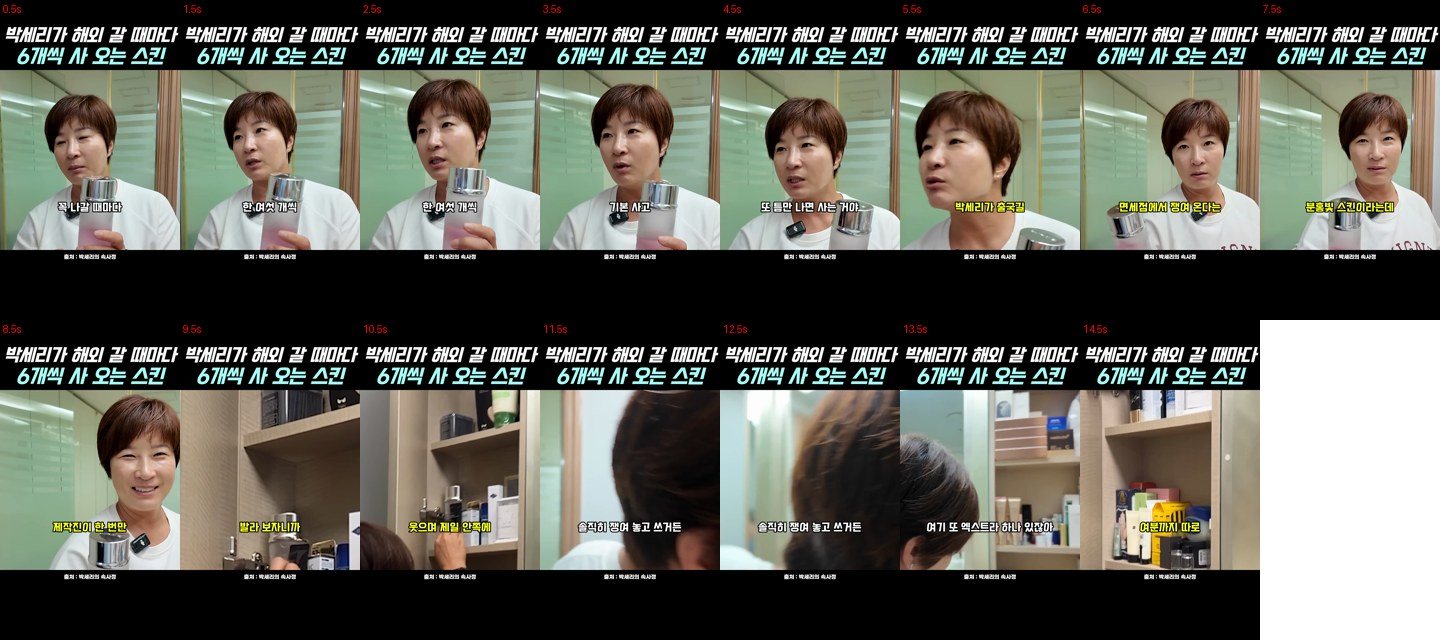
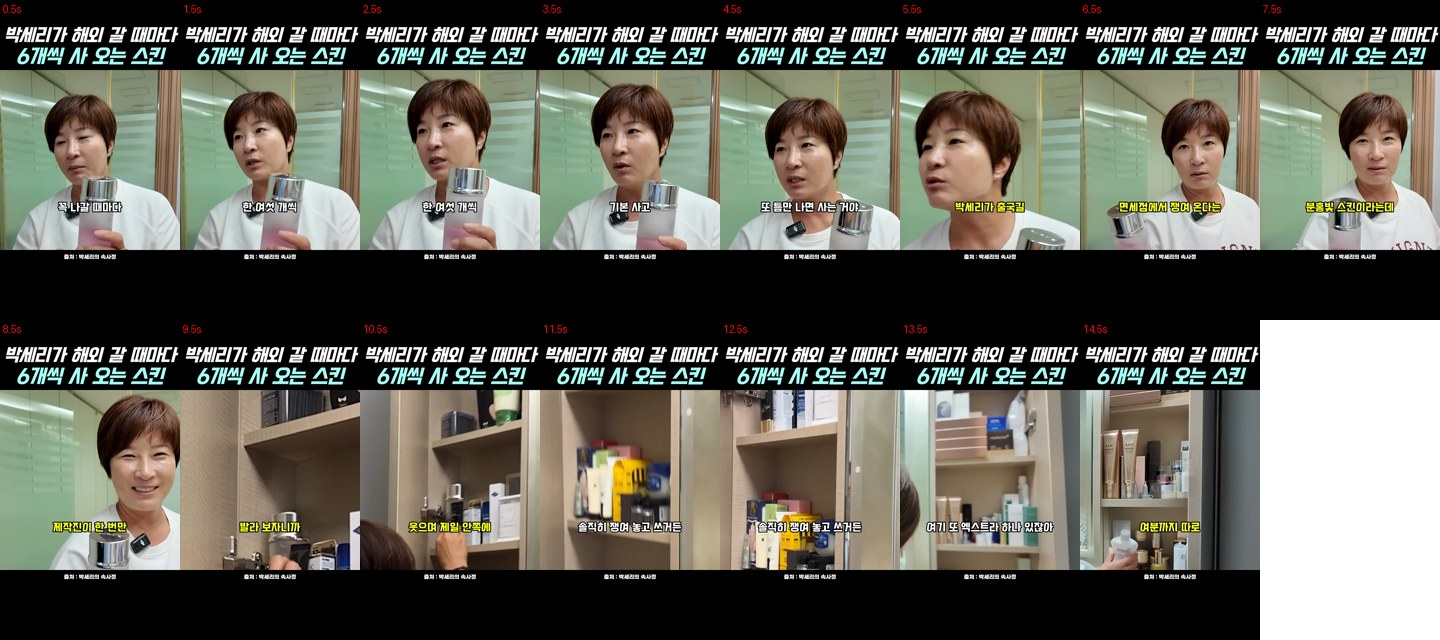
얜샷템 박세리 면세점 3판: 원음 '솔직히 쟁여 놓고 쓰거든' 화면을 흐린 뒷머리→보물창고 수납장, '여기 또 엑스트라'=수납장 앞 박세리, 끝 컷=같은 수납장 칸 · 1프레임 샘 2곳 끊음 · 줄별 대조표 B표 · check_seams 0 · MD5 6251a5a4 (관제 097)
Claude-Session: https://claude.ai/code/session_01XyPA8AgSD2J8UjfhcqxXRx

diff --git a/channel/yanshottem/박세리_면세점/make_render.py b/channel/yanshottem/박세리_면세점/make_render.py
@@ -61,8 +61,10 @@ O3_B = 1.45                   # 145.0 '여기 또 엑스트라 하나 있잖아'
 S6_MAX = 146.21               # 원본 컷 146.246 앞
 GAP_O3 = 0.06
 TAIL_MIN = 0.15
-END_CUT = 1.64                # 끝 컷 = 보물창고 123.98~125.62(원본 컷 125.659 앞 — 2판에서 2.1초로 넘겨 다음 샷 '팔 뻗기'가 섞였음) · ≥1.5초(B4)
-S6_V = 4.93 + (140.03 - 136.10) + (143.505 - 141.203)   # 11.162 — 뒷머리 컷(143.51)이 가장 늦게 시작할 수 있는 시각
+END_CUT = 1.64                # 끝 컷 146.28~147.92(원본 컷 148.715 앞)
+STASH = (123.98, 125.618)     # 보물창고 = 원음 '솔직히 쟁여 놓고 쓰거든' 화면
+# (2판 끝 컷 = 보물창고 123.98~125.62(원본 컷 125.659 앞 — 2판에서 2.1초로 넘겨 다음 샷 '팔 뻗기'가 섞였음) — 3판에서 O3 화면으로 옮김)
+S6_V = 4.93 + (140.03 - 136.10) + (143.505 - 141.203)   # (S5B 는 143.47 에서 끝 — s5a 가 0.035초 앞에서 시작)   # 11.162 — 뒷머리 컷(143.51)이 가장 늦게 시작할 수 있는 시각
 PUNCH = [620, 60, 720, 720]   # 원음 뒤쪽 확대(얼굴+병, 아래 편집 자막 y≥900 밖)
 
 
@@ -86,7 +88,10 @@ def plan():
     o3s = max(s6 + O3_LEAD, n2[1] + GAP_2O)
     o3 = (o3s, o3s + O3_DUR)
     n3 = (o3[1] + GAP_O3, o3[1] + GAP_O3 + L[2])
-    t7 = s6 + (S6_MAX - 143.51)          # 뒷머리 컷은 원본 컷 146.246 앞까지
+    # 3판(지휘 줄별 대조): 1·2판 원음 O3 화면 = 흐린 뒷머리 2.7초 → 말과 안 맞음. '솔직히 쟁여 놓고 쓰거든' = 보물창고 수납장(쌓아 둔 화장품),
+    # '여기 또 엑스트라 하나 있잖아' = 수납장 앞 박세리(145.15~ 그 말을 하는 장면), 끝 나레 '여분까지 따로 챙겨 뒀다네요' = 같은 수납장 칸칸이 쌓인 화장품(146.28~, 원본 컷 146.246 뒤 앞으로)
+    s6b = s6 + STASH[1] - STASH[0]
+    t7 = s6b + (S6_MAX - 145.15)          # 수납장 앞 박세리 컷은 원본 컷 146.246 앞까지
     dur = round(t7 + END_CUT, 3)
     assert dur - n3[1] >= TAIL_MIN, (dur, n3)
     # 컷: (ss, 길이 또는 None=다음 컷까지, crop, 소리 ss 또는 None)
@@ -99,10 +104,11 @@ def plan():
         (4.93 + (138.739 - 136.10), 138.739, [370, 0, 860, 860], None),
         (4.93 + (140.03 - 136.10), None, [730, 0, 580, 580], None),   # 140.03: 원본 컷 140.073 뒤 프레임(감추는 손 자막)이 2프레임 새던 것(렌더 실측 8.80·8.84초) 끊음   # ss = 끝이 142.18 에 닿게(아래) — '(급하게 감추는 손)' 위 y<580
         (None, 142.18, [560, 0, 860, 860], None),   # 142.18 원본 자막이 아래 노랑(y≥900)으로 바뀐 뒤 — 손·병 다 보이게 넓힘(x≥1725 제작진 얼굴 밖)
-        (s6, 143.51, [760, 0, 880, 880], 143.51),   # 소리는 아래 소리 시간표에서 o3 시작부터 143.55
-        (t7, 123.98, [480, 0, 880, 880], None),
+        (s6, STASH[0], [480, 0, 880, 880], "O3"),   # 보물창고(원본 컷 125.659 앞) — 소리는 O3 원음(아래 소리 시간표)
+        (s6b, 145.15, [1040, 0, 880, 880], "O3"),     # '여기 또 엑스트라' 장면
+        (t7, 146.28, [960, 0, 880, 880], None),        # 끝 컷 — 칸칸이 쌓인 화장품, 아래 노랑 편집 자막(y≈925~) 밖
     ]
-    S5B = 143.505 - 142.18
+    S5B = 143.47 - 142.18   # 3판: 143.505 로 끝내면 원본 컷 143.51 뒤 뒷머리 1프레임이 샘(11.16초 실측) — 뒤 컷이 이제 다른 장면
     c[7] = (s6 - S5B,) + c[7][1:]
     shots = []
     for i, (t0, ss, crop, ass) in enumerate(c):
@@ -182,11 +188,12 @@ def write_docs(P, ev):
         d = round(p["t1"] - p["t0"], 3)
         sh.update({"ss": p["ss"], "dur": d, "src_span": [p["ss"], round(p["ss"] + d, 3)], "t_final": [p["t0"], p["t1"]], "src_crop": p["crop"],
                    "scale": round(1080 / p["crop"][2], 2)})
-        if p["audio_ss"] is not None:
+        if p["audio_ss"] is not None and p["audio_ss"] != "O3":
             sh["audio_src"], sh["audio_ss"] = VOICE, p["audio_ss"]
-        if p["audio_ss"] == 143.51:
-            sh["audio_note"] = (f"소리 = {round(P['o3'][0] - 0.04, 3)}초부터 143.51~(말 143.55~{143.55 + O3_DUR:.2f}), 앞 {round(P['o3'][0] - 0.04 - p['t0'], 3)}초 무음 — "
-                                "나레가 길어 화면(뒷머리, 입 안 보임)을 먼저 띄움")
+        if p["audio_ss"] == "O3":
+            sh.pop("mute", None)
+            sh["audio_src"], sh["audio_ss"] = VOICE, "O3"
+            sh["audio_note"] = f"소리 = O3 원음 143.51~ 이 {round(P['o3'][0] - 0.04, 3)}초부터 두 컷(보물창고·수납장 앞)에 걸쳐 이어짐(말 143.55~{143.55 + O3_DUR:.2f}) — 화면은 원음과 다른 장면(말과 맞는 화면)"
     M["_note"] = M["_note"].split(" 시각은")[0] + " 시각 = make_render.py PLAN(미나 TTS 뒤 확정)."
     (D / "재료.json").write_text(json.dumps(M, ensure_ascii=False, indent=1), encoding="utf-8")
     return S, M
@@ -251,10 +258,11 @@ def main(render=True, mix_only=False):
     tl, aud = [], []
     for k, p in enumerate(P["shots"]):
         segs = [(p["t0"], p["t1"], p["audio_ss"])]
-        if p["audio_ss"] == 143.51:
-            o3s = P["o3"][0]
-            cut = min(round(P["o3"][1] + 0.08, 3), p["t1"])
-            segs = [(p["t0"], round(o3s - 0.04, 3), None), (round(o3s - 0.04, 3), cut, 143.51), (cut, p["t1"], None)]
+        if p["audio_ss"] == "O3":   # O3 원음은 화면 두 컷에 걸쳐 끊김 없이 143.51~ (말 143.55 = o3 시작)
+            a0 = round(P["o3"][0] - 0.04, 3)
+            cut = round(P["o3"][1] + 0.08, 3)
+            lo, hi = max(p["t0"], a0), min(p["t1"], cut)
+            segs = [(p["t0"], lo, None), (lo, hi, round(143.51 + lo - a0, 3)), (hi, p["t1"], None)]
         for a, b, ass in [x for x in segs if x[1] - x[0] > 0.01]:
             tl.append([a, b])
             snd = {"i": len(aud), "src": SRCV, "ss": p["ss"], "plan_i": k, "t_final": [a, b]}

diff --git a/channel/yanshottem/박세리_면세점/B표.md b/channel/yanshottem/박세리_면세점/B표.md
@@ -1,6 +1,6 @@
 # 박세리 면세점 스킨 — 검수표 (렌더 뒤, 2026-10-17)
 
-- 완성본 `C:/숏템_칼카피/yanshottem/박세리_면세점/render/final.mp4` = `C:/Users/CH/Desktop/칼카피영상/얜샷템/칼카피_얜샷템_박세리면세점.mp4` MD5 9bd630e7473dfb38d35ab1d2aa27e4b1
+- 완성본 `C:/숏템_칼카피/yanshottem/박세리_면세점/render/final.mp4` = `C:/Users/CH/Desktop/칼카피영상/얜샷템/칼카피_얜샷템_박세리면세점.mp4` MD5 6251a5a4f116a2ed45009e2ee830fe3b (3판)
 - 렌더 `make_render.py`(정본 = annapick/1편_한고은채소통 같은 길) · 1초 시트 `final_sheet_1s.jpg` · 대조 `대조/차이표.md`
 - 벤치 만템 BzEO7-_uXkQ 15.80초 −15.9 LUFS
 
@@ -16,9 +16,9 @@
 | # | 판정 | 근거 |
 |---|---|---|
 | B1 길이 | ○ | 15.60초(영상 468프레임) vs 15.80 −1.3% |
-| B2 LUFS | ○ | −16.0 vs −15.9, 최고점 −1.0 dBFS |
+| B2 LUFS | ○ | −16.1 vs −15.9, 최고점 −1.0 dBFS |
 | B3 말속도 | ○ | 나레 8.52/8.47/8.49자/초(공백 뺀 26·27·12자 ÷ 3.05·3.19·1.41초) vs 만템 8.4 (+1%) |
-| B4 컷 중앙 | △ | 편집한 컷 목록(원본 내부 컷 4.83 포함) 중앙 1.33초 vs 벤치 1.117 +19%(더 느림 쪽). **compare 자 1.70(+52%) 밖** — 같은 그림 확대 컷(1.82·3.65·4.93)을 자가 못 셈(벤치도 같은 자). 원본 분량(136.10~143.51 중 손 자막 구간 빼면 6.2초)이 모자라 컷을 더 못 쪼갬. 끝 컷 1.64초 ≥1.5 |
+| B4 컷 중앙 | ○ | 지휘 판정: 우리 틀 벤치 만템 1.40초 ±30% 기준 — compare 1.633초 = +17%(3판). 끝 컷 1.64초 ≥1.5 |
 | B5 꾸밈 | ○ | 꾸밈 없음 |
 | B6 짤·사진 | ○ | 짤 0, 사진 0 |
 | B7 자막 잔존 | ○ | 0.25초 시트 + 컷 경계 ±2프레임 눈 확인 — 원본 편집 자막('(급하게 감추는 손)' 등) 0. 1판에서 8.80·8.84초 2프레임 샌 것 고침(140.03에서 끊음) |
@@ -27,16 +27,31 @@
 | B10 가운데 | ○ | 끝 컷 수납장 가운데 |
 | B11 MD5 | ○ | 위 |
 | B12 compare | 첨부 | ① 24 중 안 15. 밖 = 틀 글자 크기·자막 띠 자리(얜샷템 틀 = 의도), 자막당 초 0.9 vs 0.5, 컷 중앙·p90(B4) |
-| B13 장면 중복 | ○ | 쓴 구간 123.98~125.62 / 130.86~134.51 / 134.82~140.03 / 141.203~143.505 / 143.51~146.21 — 겹침·재사용 0 |
+| B13 장면 중복 | ○ | 쓴 구간 123.98~125.618 / 130.86~134.51 / 134.82~140.03 / 141.168~143.47 / 145.15~146.21 / 146.28~147.92 — 겹침·재사용 0. 인트로 4~9초(130~134 와 같은 화면, 프레임 차 실측)는 안 씀 |
 | B14 효과음 | ○ | 0발(벤치 웃음 1) |
 | B15 줄별 말속도 | ○ | 8.52/8.47/8.49 — 끝 줄 빠르지 않음 |
-| B16 A-B-A | ○ | 박세리(얼굴)→수납장 손→뒷머리→보물창고 수납장(다른 장면). 같은 인물 사이 한 컷 끼움 0 |
+| B16 A-B-A | ○ | 박세리 얼굴→수납장 손→보물창고 수납장→수납장 앞 박세리→같은 수납장 칸(앞으로만). 같은 인물 사이 한 컷 끼움 0 |
 | B16 이음매 | ○ | `check_seams --frame frame_render.json` 종료코드 0 · 되감김 0 · 점프 줌 4(드묾: 1.87 우리 확대, 4.83·7.57 원본 편집 컷, 4.97 확대 풀림) |
 | B17 TTS 말투 | ○ | 미나 expressive 1회, 줄별 atempo 1.60/1.66/1.62(차 ≤4%) |
-| B17 원음 알아들림 | ○ | 단독 받아쓰기 O1 '꼭 나갈 때마다 한 여섯 개씩 기본 사고 / 또 틈만 나면 사는 거'(2.5-pro) · O3 '솔직히 쟁여놓고 쓰거든 / 여기 또 엑스트라 있네'(pro)·'…여기 또 엑스트라'(flash) = 공식 편집 자막 '해외나갈 때마다…6개씩은 기본으로 사고'·'솔직히 쟁여놓고 쓰거든'·'여기 또 엑스트라 하나 있잖아' 핵심 어절 일치. 원본 크기 −25~−31dB(−35 위) |
+| B17 원음 알아들림 | ○ | 단독 받아쓰기 O1 '꼭 나갈 때마다 한 여섯 개씩 기본 사고 / 또 틈만 나면 사는 거'(2.5-pro) · O3 '솔직히 쟁여놓고 쓰거든 / 여기 또 엑스트라'(3판 pro, 전편 pro '여기 또 엑스트라 또 있잖아') = 공식 편집 자막 '해외나갈 때마다…6개씩은 기본으로 사고'·'솔직히 쟁여놓고 쓰거든'·'여기 또 엑스트라 하나 있잖아' 핵심 어절 일치. 원본 크기 −25~−31dB(−35 위) |
+
+## 줄별 대조 (3판 — 대사 | 그 순간 화면 | 맞음)
+| 시각 | 대사 | 화면(원본 시각) | 맞음 |
+|---|---|---|---|
+| 0.0~3.65 | (원음) 꼭 나갈 때마다 한 여섯 개씩 기본 사고 | 분홍 병 들고 말하는 박세리(130.86~, 1.82 확대) — 소리·입 같은 시각 | ○ |
+| 3.65~4.93 | (원음) 또 틈만 나면 사는 거야 | 같은 자리 말하는 박세리(134.82~) | ○ |
+| 4.98~5.70 | 박세리가 출국길 | 박세리 얼굴 가까이(136.10~) | △ 출국 화면 없음 — 원본 1014초 5초 간격 시트 전수: 욕실·차 운전·빵집·카페·옷가게뿐, 공항·가방·면세점 0 |
+| 5.70~7.28 | 면세점에서 쟁여 온다는 | 분홍 병 든 박세리(137.04~) | ○(병) |
+| 7.28~8.13 | 분홍빛 스킨이라는데 | 병 든 박세리 → 웃는 얼굴(138.74~) | ○ |
+| 8.13~9.02 | 제작진이 한 번만 | 병 든 채 웃는 박세리('(싫은뎅?)' 장면) | ○ |
+| 9.02~9.61 | 발라 보자니까 | 수납장 칸에 병을 미는 손(141.17~) | △ 부탁 장면(137.04~)은 원본 순서상 앞 줄 자리 |
+| 9.61~11.32 | 웃으며 제일 안쪽에 / 넣어 버렸대요 | 병을 맨 안쪽으로 밀어 넣는 본인 손(141.17~143.47) | ○ |
+| 11.42~12.80 | (원음) 솔직히 쟁여 놓고 쓰거든 | 보물창고 수납장 — 칸마다 쌓인 화장품(123.98~) | ○(3판 고침: 1·2판 흐린 뒷머리) |
+| 12.80~13.86 | (원음) 여기 또 엑스트라 하나 있잖아 | 수납장 앞 박세리 → 옆 칸 화장품(145.15~, 그 말 하는 장면) | ○ |
+| 13.88~15.29 | 여분까지 따로 / 챙겨 뒀다네요 | 같은 수납장 칸칸이 쌓인 화장품·병 꺼내는 손(146.28~) | ○ |
 
 ## 남은 흠
-- B4 compare 자 기준 컷 중앙 +52%(편집 목록 기준 +19%) — 페이블 판단.
-- O3 원음은 화면(뒷머리, 입 안 보임)보다 0.215초 늦게 나옴(나레 TTS 가 원본 분량보다 길어서) — 입이 안 보이는 컷이라 눈에 안 띔.
+- 끝 컷 위 칸에 다른 회사 튜브(AHC) 글자가 보임(제품 포장 — 편집 자막 아님).
+- O3 원음 화면은 다른 장면(보물창고)·수납장 앞(입 안 보임) — 소리와 입 맞춤 필요 없는 컷.
 - 끝 나레 −13.0 LUFS 로 앞 나레(−15.3)보다 약 2dB 큼(TTS 원음 차).
 - 1편 엔진 요청 그대로: 원음 자막 자리 100px 아래·강조 낱말 민트 칸 없음(색만 흰/노랑).

diff --git a/channel/yanshottem/박세리_면세점/대조/차이표.md b/channel/yanshottem/박세리_면세점/대조/차이표.md
@@ -30,7 +30,7 @@
 | 틀 | 창 위 띠2 [293,398) 잉크 비율 | 0.05505 | 0.06246 | 0.007 (13.5%) | 띠 잉크 비율 차 ≤ 20% | 안 | `bands.band_style(layout.ink_mask)` |
 | 자막 | 첫 줄 y 중앙(px) | 1322 | 1215 | -107.0px (5.6% of H1920) | 첫 줄 y 중앙 차 ≤ 화면 높이의 6% | 안 | `captions.caption_lines` |
 | 자막 | 줄 수 중앙 | 1 | 1 | 같음 | 줄 수(중앙) 같음 | 안 | `captions.caption_lines` |
-| 자막 | 줄 폭 중앙(px) | 555 | 438 | -117.0 (21.1%) | 줄 폭 중앙 차 ≤ 6% | **밖** | `captions.caption_lines` |
+| 자막 | 줄 폭 중앙(px) | 555 | 414 | -141.0 (25.4%) | 줄 폭 중앙 차 ≤ 6% | **밖** | `captions.caption_lines` |
 | 자막 | 첫 줄 높이 중앙(px) | 69.5 | 55 | -14.5 (20.9%) | 첫 줄 높이 중앙 차 ≤ 6% | **밖** | `captions.glyph_style` |
 | 자막 | 획 두께 중앙(px) | 3 | 8 | 5 | 획 두께 중앙 차 ≤ 1px | **밖** | `captions.glyph_style` |
 | 자막 | 외곽선 있음(다수) | 있음 | 있음 | 같음 | 외곽선 유무(다수) 같음 — bench는 굵기 px를 안 재고 유무만 잰다 | 안 | `captions.glyph_style` |
@@ -38,10 +38,10 @@
 | 자막 | 등장효과(최빈) | 확대/축소 | 확대/축소 | 같음 | 등장효과 종류(최빈) 같음 | 안 | `captions.caption_anim` |
 | 자막 | 자막당 초 중앙 | 0.5 | 0.9 | 0.4 (80.0%) | 자막당 초 중앙 차 ≤ 15% | **밖** | `captions.caption_track(흔들림 구간 제외)` |
 | 자막 | 자막 개수 | 17 | 15 | -2 | 참고(설계에 기준 수치 없음) | 참고 | `captions.caption_track(흔들림 구간 제외)` |
-| 컷 | 컷 길이 중앙(초) | 1.117 | 1.7 | 0.583 (52.2%) | 컷 길이 중앙 차 ≤ 15% | **밖** | `cuts.shot_lengths` |
+| 컷 | 컷 길이 중앙(초) | 1.117 | 1.633 | 0.516 (46.2%) | 컷 길이 중앙 차 ≤ 15% | **밖** | `cuts.shot_lengths` |
 | 컷 | 컷 길이 p90(초) | 2.333 | 3.733 | 1.4 (60.0%) | 컷 길이 p90 차 ≤ 15% | **밖** | `cuts.shot_lengths` |
 | 컷 | 첫 컷 시각(초) | 3.1 | 4.833 | 1.733 | 참고(설계에 기준 수치 없음) | 참고 | `cuts.shot_lengths` |
-| 컷 | 자막=컷 일치율(%) | 90.9 | 83.3 | -7.6 | 참고(설계에 기준 수치 없음) | 참고 | `cuts.cut_eq_sub` |
+| 컷 | 자막=컷 일치율(%) | 90.9 | 66.7 | -24.2 | 참고(설계에 기준 수치 없음) | 참고 | `cuts.cut_eq_sub` |
 | 컷 | 샷 수 | 12 | 7 | -5 | 참고(설계에 기준 수치 없음) | 참고 | `cuts.scene_detect+merge_close+cut_verify` |
 | 소리 | True Peak(dBTP) | -0.6 | -1 | -0.4 | 참고(설계에 기준 수치 없음) | 참고 | `audio.ebur128` |
 | 길이 | 길이(초, 프레임÷fps) | 15.799 | 15.6 | -0.199 (1.3%) | 길이 차 ≤ 15% | 안 | `probe.info` |
@@ -54,7 +54,7 @@
 | 효과음 | 효과음 중 자막 교체·컷 ±0.2s 비율(%) | - | - | - | 효과음 자리(자막 교체·컷 ±0.2s) 비율 차 ≤ 20%p | failed:원본: 미측정(--rules-json 없음) / 우리: 미측정(--rules-json 없음) | `뜯기.json sfx 시각 × bench captions.changes+cuts` |
 | 배경음 | 배경음 있음 | - | - | - | 배경음 있음/없음 같음 | failed:원본: 미측정(--rules-json 없음) / 우리: 미측정(--rules-json 없음) | `뜯기.json rules.bgm.present` |
 | 배경음 | 배경음 LUFS | - | - | - | 배경음 LUFS 차 ≤ 1.5dB | failed:원본: 미측정(--rules-json 없음) / 우리: 미측정(--rules-json 없음) | `뜯기.json rules.bgm.lufs` |
-| 배경음 | 통합 LUFS(믹스) | -15.9 | -16 | 0.1 | 통합 LUFS(믹스) 차 ≤ 1.5dB — 배경음만 뗀 값 아님 | 안 | `audio.ebur128` |
+| 배경음 | 통합 LUFS(믹스) | -15.9 | -16.1 | 0.2 | 통합 LUFS(믹스) 차 ≤ 1.5dB — 배경음만 뗀 값 아님 | 안 | `audio.ebur128` |
 | 배경음 | 덕킹 dB(나레 구간−말 없는 구간) | - | - | - | 덕킹 dB 차 ≤ 3dB | failed:원본: 미측정(--rules-json 없음) / 우리: 미측정(--rules-json 없음) | `뜯기.json audio.composition.duck_db` |
 | 짤 | 짤 개수/편 | - | - | - | 짤 편당 개수 차 ≤ 1 | failed:원본: 미측정(--rules-json 없음) / 우리: 미측정(--rules-json 없음) | `뜯기.json materials.per_shot(kind=짤·밈)` |
 | 짤 | 짤 자리 {훅,중간,끝} | - | - | - | 짤 자리(훅/중간/끝) 칸마다 개수 차 ≤ 1 | failed:원본: 미측정(--rules-json 없음) / 우리: 미측정(--rules-json 없음) | `뜯기.json materials.per_shot(kind=짤·밈) t 가운데` |

diff --git a/channel/yanshottem/박세리_면세점/근거.md b/channel/yanshottem/박세리_면세점/근거.md
@@ -60,9 +60,9 @@
 ## 5. 렌더 (2026-10-17)
 
 - TTS: 일레븐랩스 미나 **1회**(`tools/calcopy/mina_tts.py`, expressive, 서버 합성 14.16초, 받아쓰기 = 대본 그대로) → 줄별 atempo 1.60/1.66/1.62 → 8.52/8.47/8.49자/초(만템 8.4). 타입캐스트 0.
-- 렌더 `make_render.py`(시각의 주인 = PLAN·TEMPO) → `C:/숏템_칼카피/yanshottem/박세리_면세점/render/final.mp4` 15.60초 −16.0 LUFS 최고점 −1.0 → `C:/Users/CH/Desktop/칼카피영상/얜샷템/칼카피_얜샷템_박세리면세점.mp4` MD5 9bd630e7473dfb38d35ab1d2aa27e4b1.
+- 렌더 `make_render.py`(시각의 주인 = PLAN·TEMPO) → `C:/숏템_칼카피/yanshottem/박세리_면세점/render/final.mp4` 15.60초 −16.1 LUFS 최고점 −1.0 → `C:/Users/CH/Desktop/칼카피영상/얜샷템/칼카피_얜샷템_박세리면세점.mp4` MD5 6251a5a4f116a2ed45009e2ee830fe3b(3판).
 - 틀 = 얜샷템(`channel/mantem/frame_얜샷템.json`, 제목·출처만 → `frame_render.json`). 자막 나레 노랑·원음 흰(caption_events emph).
 - 원음: O1 130.86~134.51+134.82~136.10(+12.5dB) · O3 143.55~145.95 '솔직히 쟁여 놓고 쓰거든 / 여기 또 엑스트라 하나 있잖아'(+11.5/+14.5dB) — 계획의 O3(143.55~144.80)는 단독 받아쓰기가 '솔직히 챙겨'에서 끊겨(원본도 같음) 뒷말 f4 까지 늘림. BGM sweets −27 LUFS, 원음 창 −10dB 덕킹(만템 8/8 배경음악).
-- 컷: 원음 3.65초 한 컷을 둘로(1.82 확대, B4) · 수납장 컷을 둘로(141.203~142.18 위쪽만 = '(급하게 감추는 손)' 자막 밖 / 142.18~ 자막이 아래 노랑으로 바뀐 뒤 넓게) · 끝 컷 보물창고 123.98~125.62(원본 컷 125.659 앞).
+- 컷: 원음 3.65초 한 컷을 둘로(1.82 확대, B4) · 수납장 컷을 둘로(141.203~142.18 위쪽만 = '(급하게 감추는 손)' 자막 밖 / 142.18~ 자막이 아래 노랑으로 바뀐 뒤 넓게) · 3판(지휘 줄별 대조): 원음 O3 화면을 흐린 뒷머리 → 보물창고 수납장(123.98~125.618, '쟁여 놓고') + 수납장 앞 박세리(145.15~146.21, '여기 또 엑스트라'), 끝 컷 = 같은 수납장 칸(146.28~147.92). '출국길' 화면은 원본 전체(5초 간격 시트)에 공항·가방 없음.
 - 검수: `B표.md` · check_seams 종료코드 0 · 대조 `대조/차이표.md`.
 - 엔진과 다르게 한 것(한고은 편과 같음): line_asr=False · 원음 소리 컷 단위 · BGM 덕킹 편 스크립트 · 맨 앞 무음 끼우기 편 스크립트 · 렌더용 대본 나레 한 문장+자막 전부 emph · 원음 자막 자리 = 나레와 같음.
